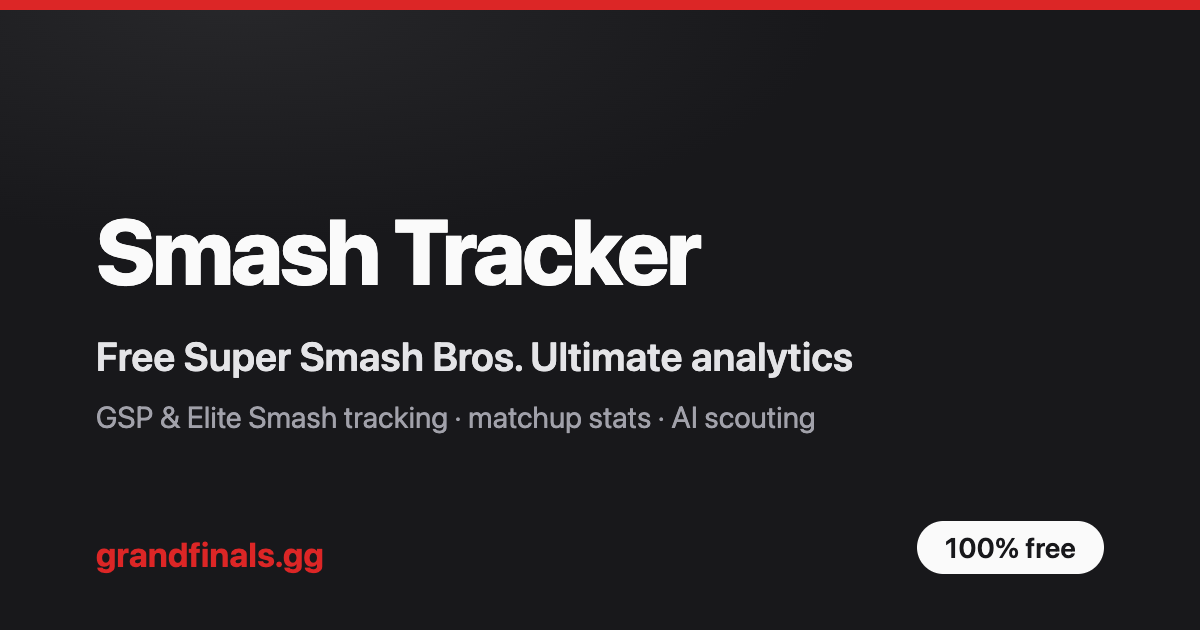
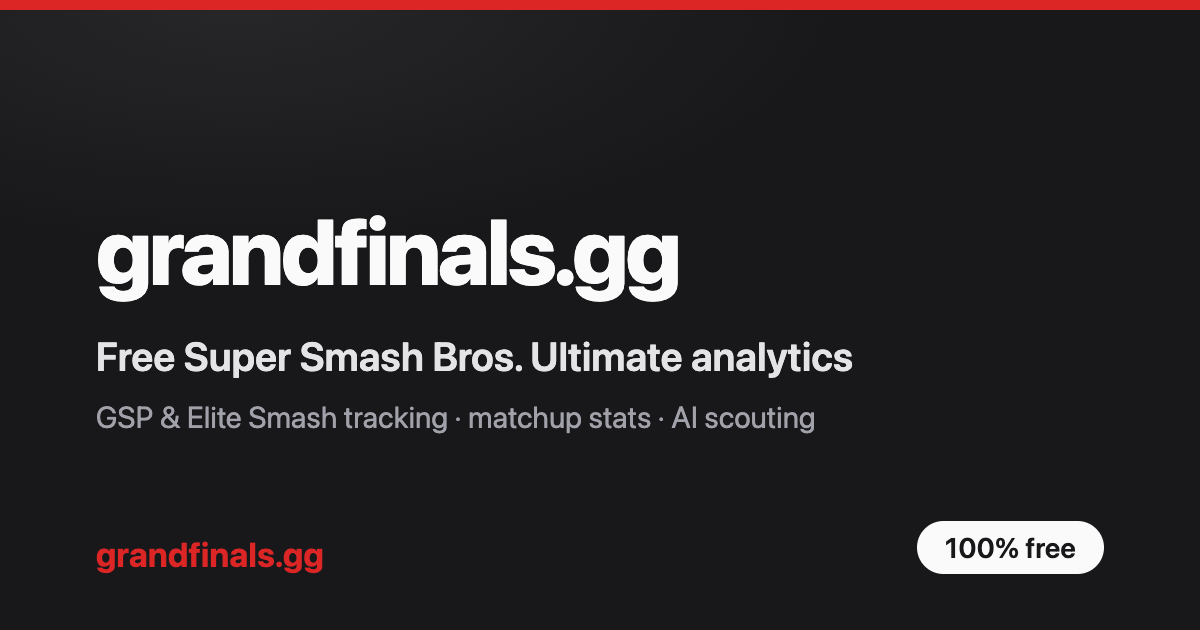
feat(quick-260714-idl): rebrand OG card, Stripe checkout label, and README
- generate-og-image.mjs h1 updated and og-image.png regenerated (1200x630)
- Stripe checkout line-item name and matching test assertion updated
- README heading and intro sentence updated to grandfinals.gg

Changed region(s): [[0.0617, 0.3317, 0.5858, 0.4825]]

diff --git a/apps/api/src/routes/billing.test.ts b/apps/api/src/routes/billing.test.ts
@@ -225,7 +225,7 @@ describe('POST /api/billing/checkout (configured)', () => {
         price_data: {
           currency: 'usd',
           unit_amount: 2000,
-          product_data: { name: 'Smash Tracker — AI report credits (15 reports)' },
+          product_data: { name: 'grandfinals.gg — AI report credits (15 reports)' },
         },
         quantity: 1,
       },

diff --git a/apps/api/src/routes/billing.ts b/apps/api/src/routes/billing.ts
@@ -127,7 +127,7 @@ const billingRoutes: FastifyPluginAsyncZod<BillingRoutesOptions> = async (app, o
               currency: 'usd',
               unit_amount: pack.amountCents,
               product_data: {
-                name: `Smash Tracker — AI report credits (${pack.label})`,
+                name: `grandfinals.gg — AI report credits (${pack.label})`,
               },
             },
             quantity: 1,

diff --git a/README.md b/README.md
@@ -1,9 +1,9 @@
-## Smash Tracker
+## grandfinals.gg
 
 **Use it live → https://grandfinals.gg**
 alternative link: https://smash-tracker-f97b7.web.app
 
-Smash Tracker is a match-tracking app for **Super Smash Bros. Ultimate**. Sign in, pick a
+grandfinals.gg is a match-tracking app for **Super Smash Bros. Ultimate**. Sign in, pick a
 primary/secondary fighter, log wins and losses (opponent, stage, match type, notes) after each
 set, and review your results: win/loss trends, best/worst matchups, per-stage performance,
 per-opponent history, and a per-fighter GSP (Global Smash Power) tracker with an Elite Smash